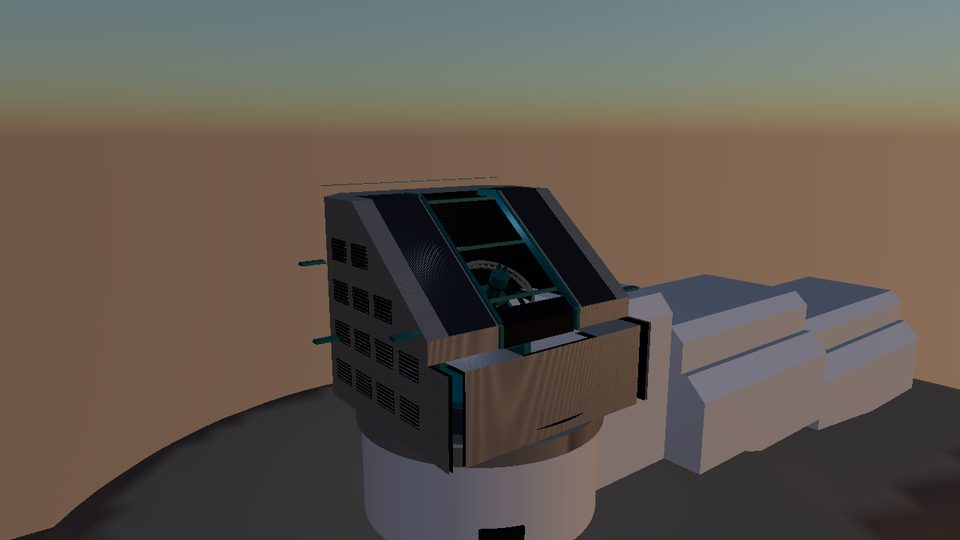
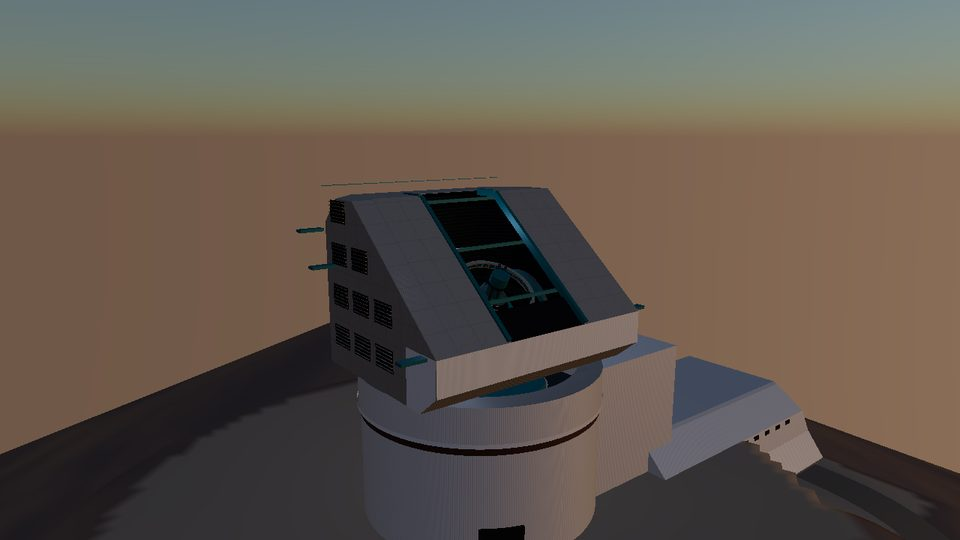
Dome: slimmer light/wind-screen housing, doors in dome aluminium; service building profile corrected
- Housing: 6.5 m tall, 5.5 m deep, with a sloped underside; roof slope
  starts at its top front edge; base top closed around the box footprint
- Sliding roof doors use the same mill-finish aluminium as the dome
- Service building section widest at the bottom and stepping in upward
  (sloped lower band, near-vertical upper band, sloped roof); the far end
  leans back toward the top (photo)

Claude-Session: https://claude.ai/code/session_01R5LZwLGziz9zxAt7115BSq

Changed region(s): [[0.0, 0.3259, 1.0, 1.0], [0.3125, 0.4444, 0.375, 0.5037], [0.625, 0.8889, 0.6562, 0.9185]]

diff --git a/src/scene/observatory.ts b/src/scene/observatory.ts
@@ -13,11 +13,13 @@ export const SITE = {
   slitHalf: 5.5, // 11 m clear slit
   // front (photos): the sloped roof doors run down to the top front edge of a deep white box,
   // the light/wind screen housing ("chin"), which sticks out well beyond the silver body
-  frontZ: 15, // = chinZ: no vertical strip above the chin
-  chinZ: 15, // front of the light/wind screen housing
-  chinBack: 6, // where the white housing meets the silver body on the sides
-  chinTop: 8.5,
-  slopeLow: 8.5, // the slope starts at the chin's top front edge
+  frontZ: 12.5, // = chinZ: no vertical strip above the chin
+  chinZ: 12.5, // front of the light/wind screen housing (slim, photos 2026-11-02)
+  chinBack: 7, // where the white housing meets the silver body on the sides
+  chinTop: 6.5,
+  chinUnder: 2.5, // the housing's front face stops 2.5 m above the box bottom...
+  chinUnderBack: 3, // ...and its underside slopes back 3 m to the box bottom
+  slopeLow: 6.5, // the slope starts at the chin's top front edge
   roofBreak: -4, // z where the sloped roof meets the flat roof
   slitBack: -7.5, // slit continues over the flat roof to here
   halfW: 15,
@@ -357,7 +359,8 @@ function buildDome(): Dome {
     for (const sg of [-1, 1]) {
       const prof: [number, number][] = [
         [-(W - c), 0],
-        [S.chinZ, 0],
+        [S.chinZ - S.chinUnderBack, 0],
+        [S.chinZ, S.chinUnder],
         [S.chinZ, S.chinTop],
         [S.roofBreak, H],
         [-(W - c) + hc, H],
@@ -388,7 +391,16 @@ function buildDome(): Dome {
     }
     // chin (light/wind screen housing): front, sides; top either side of the slit
     const cw = W - d;
-    o.add(panel([[-cw, 0], [cw, 0], [cw, S.chinTop], [-cw, S.chinTop]], new THREE.Vector3(0, 0, S.chinZ - d), X, Y, mat));
+    o.add(panel([[-cw, S.chinUnder], [cw, S.chinUnder], [cw, S.chinTop], [-cw, S.chinTop]], new THREE.Vector3(0, 0, S.chinZ - d), X, Y, mat));
+    {
+      // sloped underside of the housing
+      const a = new THREE.Vector3(0, 0 + d, S.chinZ - S.chinUnderBack);
+      const b = new THREE.Vector3(0, S.chinUnder, S.chinZ - d);
+      const U = b.clone().sub(a);
+      const Lu = U.length();
+      U.normalize();
+      o.add(panel([[-cw, 0], [cw, 0], [cw, Lu], [-cw, Lu]], a, X, U, mat));
+    }
     // sloped roof either side of the slit
     const lowP = new THREE.Vector3(0, S.slopeLow - d, S.frontZ - d);
     const highP = new THREE.Vector3(0, H - d, S.roofBreak - d);
@@ -466,8 +478,8 @@ function buildDome(): Dome {
     const d = new THREE.Group();
     const x0 = 0;
     const x1 = sg * (S.slitHalf + 0.6);
-    d.add(panel([[Math.min(x0, x1), 0], [Math.max(x0, x1), 0], [Math.max(x0, x1), Ls], [Math.min(x0, x1), Ls]], lowP, X, Uup, OBS_MAT.doors));
-    d.add(panel([[Math.min(x0, x1), S.roofBreak + 0.15], [Math.max(x0, x1), S.roofBreak + 0.15], [Math.max(x0, x1), S.slitBack - 0.6], [Math.min(x0, x1), S.slitBack - 0.6]], new THREE.Vector3(0, H + 0.15, 0), X, Z, OBS_MAT.doors));
+    d.add(panel([[Math.min(x0, x1), 0], [Math.max(x0, x1), 0], [Math.max(x0, x1), Ls], [Math.min(x0, x1), Ls]], lowP, X, Uup, OBS_MAT.cladding));
+    d.add(panel([[Math.min(x0, x1), S.roofBreak + 0.15], [Math.max(x0, x1), S.roofBreak + 0.15], [Math.max(x0, x1), S.slitBack - 0.6], [Math.min(x0, x1), S.slitBack - 0.6]], new THREE.Vector3(0, H + 0.15, 0), X, Z, OBS_MAT.cladding));
     d.userData.sg = sg;
     g.add(d);
     doors.push(d);
@@ -510,7 +522,7 @@ function buildDome(): Dome {
 
   // teal brackets sticking out of the sides (platform/crane supports, photos)
   for (const sg of [-1, 1])
-    for (const [y, z] of [[S.chinTop - 0.3, 12.5], [12.5, -9], [16.5, -12]]) {
+    for (const [y, z] of [[S.chinTop - 0.3, 10.5], [12.5, -9], [16.5, -12]]) {
       const b = new THREE.Mesh(new THREE.BoxGeometry(3, 0.35, 1.2), OBS_MAT.teal);
       b.position.set(sg * (W + 1.5), y, z);
       g.add(b);
@@ -522,12 +534,12 @@ function buildDome(): Dome {
 
   // white light/wind-screen housing: side and front faces over the silver cladding (photos)
   for (const sg of [-1, 1])
-    g.add(panel([[S.chinBack, 0], [S.chinZ, 0], [S.chinZ, S.chinTop], [S.chinBack, S.chinTop]], new THREE.Vector3(sg * (W + 0.06), 0, 0), Z, Y, OBS_MAT.chinWhite));
-  g.add(panel([[-W, 0], [W, 0], [W, S.chinTop], [-W, S.chinTop]], new THREE.Vector3(0, 0, S.chinZ + 0.06), X, Y, OBS_MAT.chinWhite));
+    g.add(panel([[S.chinBack, 0], [S.chinZ - S.chinUnderBack, 0], [S.chinZ, S.chinUnder], [S.chinZ, S.chinTop], [S.chinBack, S.chinTop]], new THREE.Vector3(sg * (W + 0.06), 0, 0), Z, Y, OBS_MAT.chinWhite));
+  g.add(panel([[-W, S.chinUnder], [W, S.chinUnder], [W, S.chinTop], [-W, S.chinTop]], new THREE.Vector3(0, 0, S.chinZ + 0.06), X, Y, OBS_MAT.chinWhite));
   // underside of the box (shadowed band seen where the box overhangs the base)
   {
     const under = panel(
-      [[-W, -(W - c)], [-(W - c), -W], [W - c, -W], [W, -(W - c)], [W, S.chinZ], [-W, S.chinZ]],
+      [[-W, -(W - c)], [-(W - c), -W], [W - c, -W], [W, -(W - c)], [W, S.chinZ - S.chinUnderBack], [-W, S.chinZ - S.chinUnderBack]],
       new THREE.Vector3(0, 0.02, 0),
       X,
       Z,
@@ -543,6 +555,11 @@ function buildDome(): Dome {
     const base = new THREE.Mesh(geo, OBS_MAT.drum);
     base.position.y = -S.baseH / 2;
     g.add(base);
+    // top of the base around the box footprint (closes the gap under the slim housing)
+    const cap = new THREE.Mesh(new THREE.RingGeometry(12.2, S.drumR + 0.25, 160), OBS_MAT.cladding);
+    cap.rotation.x = -Math.PI / 2;
+    cap.position.y = -0.02;
+    g.add(cap);
     const lip = new THREE.Mesh(new THREE.CylinderGeometry(S.drumR + 0.45, S.drumR + 0.45, 0.5, 160, 1, true), OBS_MAT.chinWhite);
     lip.position.y = -S.baseH + 0.25;
     g.add(lip);
@@ -710,34 +727,34 @@ function buildServiceBuilding() {
   // tall block against the drum (platform-lift shaft, camera & coating access), slanted top
   const tall = facetedBar([[-10, 0], [10, 0], [10, 15.5], [7, 17.5], [-10, 17.5]], 11, 27, 0, M);
   g.add(tall);
-  // long service & operations building: stacked, outward-flaring bands (cross-section in z, y)
+  // long service & operations building (photo 2026-11-02): widest at the bottom, a sloped lower
+  // band stepping in, a near-vertical upper band, then the sloped roof; the far end leans back
+  // toward the top (bottom further out than the top), like the sides
   const sec: [number, number][] = [
-    [-9, 0], [9, 0], // undercut base
-    [9, 3], [13.5, 6.5], // first band flares out
-    [13.5, 8], [15.5, 9.5], // second band
-    [15.5, 11], [12, 14.5], // sloped upper roof
-    [-12, 14.5], [-15.5, 11],
-    [-15.5, 9.5], [-13.5, 8],
-    [-13.5, 6.5], [-9, 3],
+    [-15.5, 0], [15.5, 0],
+    [13.5, 5], [13, 9], // sloped lower band, near-vertical upper band
+    [9, 13], [-9, 13], // sloped roof up to the flat top
+    [-13, 9], [-13.5, 5],
   ];
   const yb = -9; // the building steps down toward the saddle
-  const bar = facetedBar(sec, 22, 60, yb, M, 0.75, 7);
+  const bar = facetedBar(sec, 22, 64, yb, M, -0.45, 0);
   g.add(bar);
-  // flat top roof strip (slightly darker) and a ribbon of small windows
-  const roof = facetedBar([[-12, 14.5], [12, 14.5], [10, 15.6], [-10, 15.6]], 22, 60, yb, OBS_MAT.whiteRoof, 0.75, 7);
+  // flat top roof strip and a ribbon of small windows under the upper eave
+  const roof = facetedBar([[-9, 13], [9, 13], [8.5, 13.4], [-8.5, 13.4]], 22, 64 - 0.45 * 13, yb, OBS_MAT.whiteRoof, -0.45, 13);
   g.add(roof);
   const winMat = new THREE.MeshStandardMaterial({ color: 0x2a3a48, metalness: 0.6, roughness: 0.2, emissive: 0x000000 });
   for (let x = 26; x < 58; x += 3.2) {
     const w = new THREE.Mesh(new THREE.BoxGeometry(1.4, 0.7, 0.1), winMat);
-    w.position.set(x, yb + 9.0, 15.55);
+    w.position.set(x, yb + 8.3, 13.08);
     g.add(w);
   }
   // grey lower level at the far end (maintenance / loading)
-  const base = facetedBar([[-9, 0], [9, 0], [9, 5], [-9, 5]], 44, 66, yb - 5, OBS_MAT.bldgGrey);
+  const base = facetedBar([[-14, 0], [14, 0], [14, 5], [-14, 5]], 44, 66, yb - 5, OBS_MAT.bldgGrey);
   g.add(base);
   // big roll-up door on the near side
   const door = new THREE.Mesh(new THREE.BoxGeometry(8, 6, 0.2), new THREE.MeshStandardMaterial({ color: 0x55595f, metalness: 0.4, roughness: 0.6 }));
-  door.position.set(40, yb + 3, 9.1);
+  door.position.set(40, yb + 2.6, 14.6);
+  door.rotation.x = -Math.atan2(2, 5);
   g.add(door);
   g.userData.windows = winMat;
   return g;
